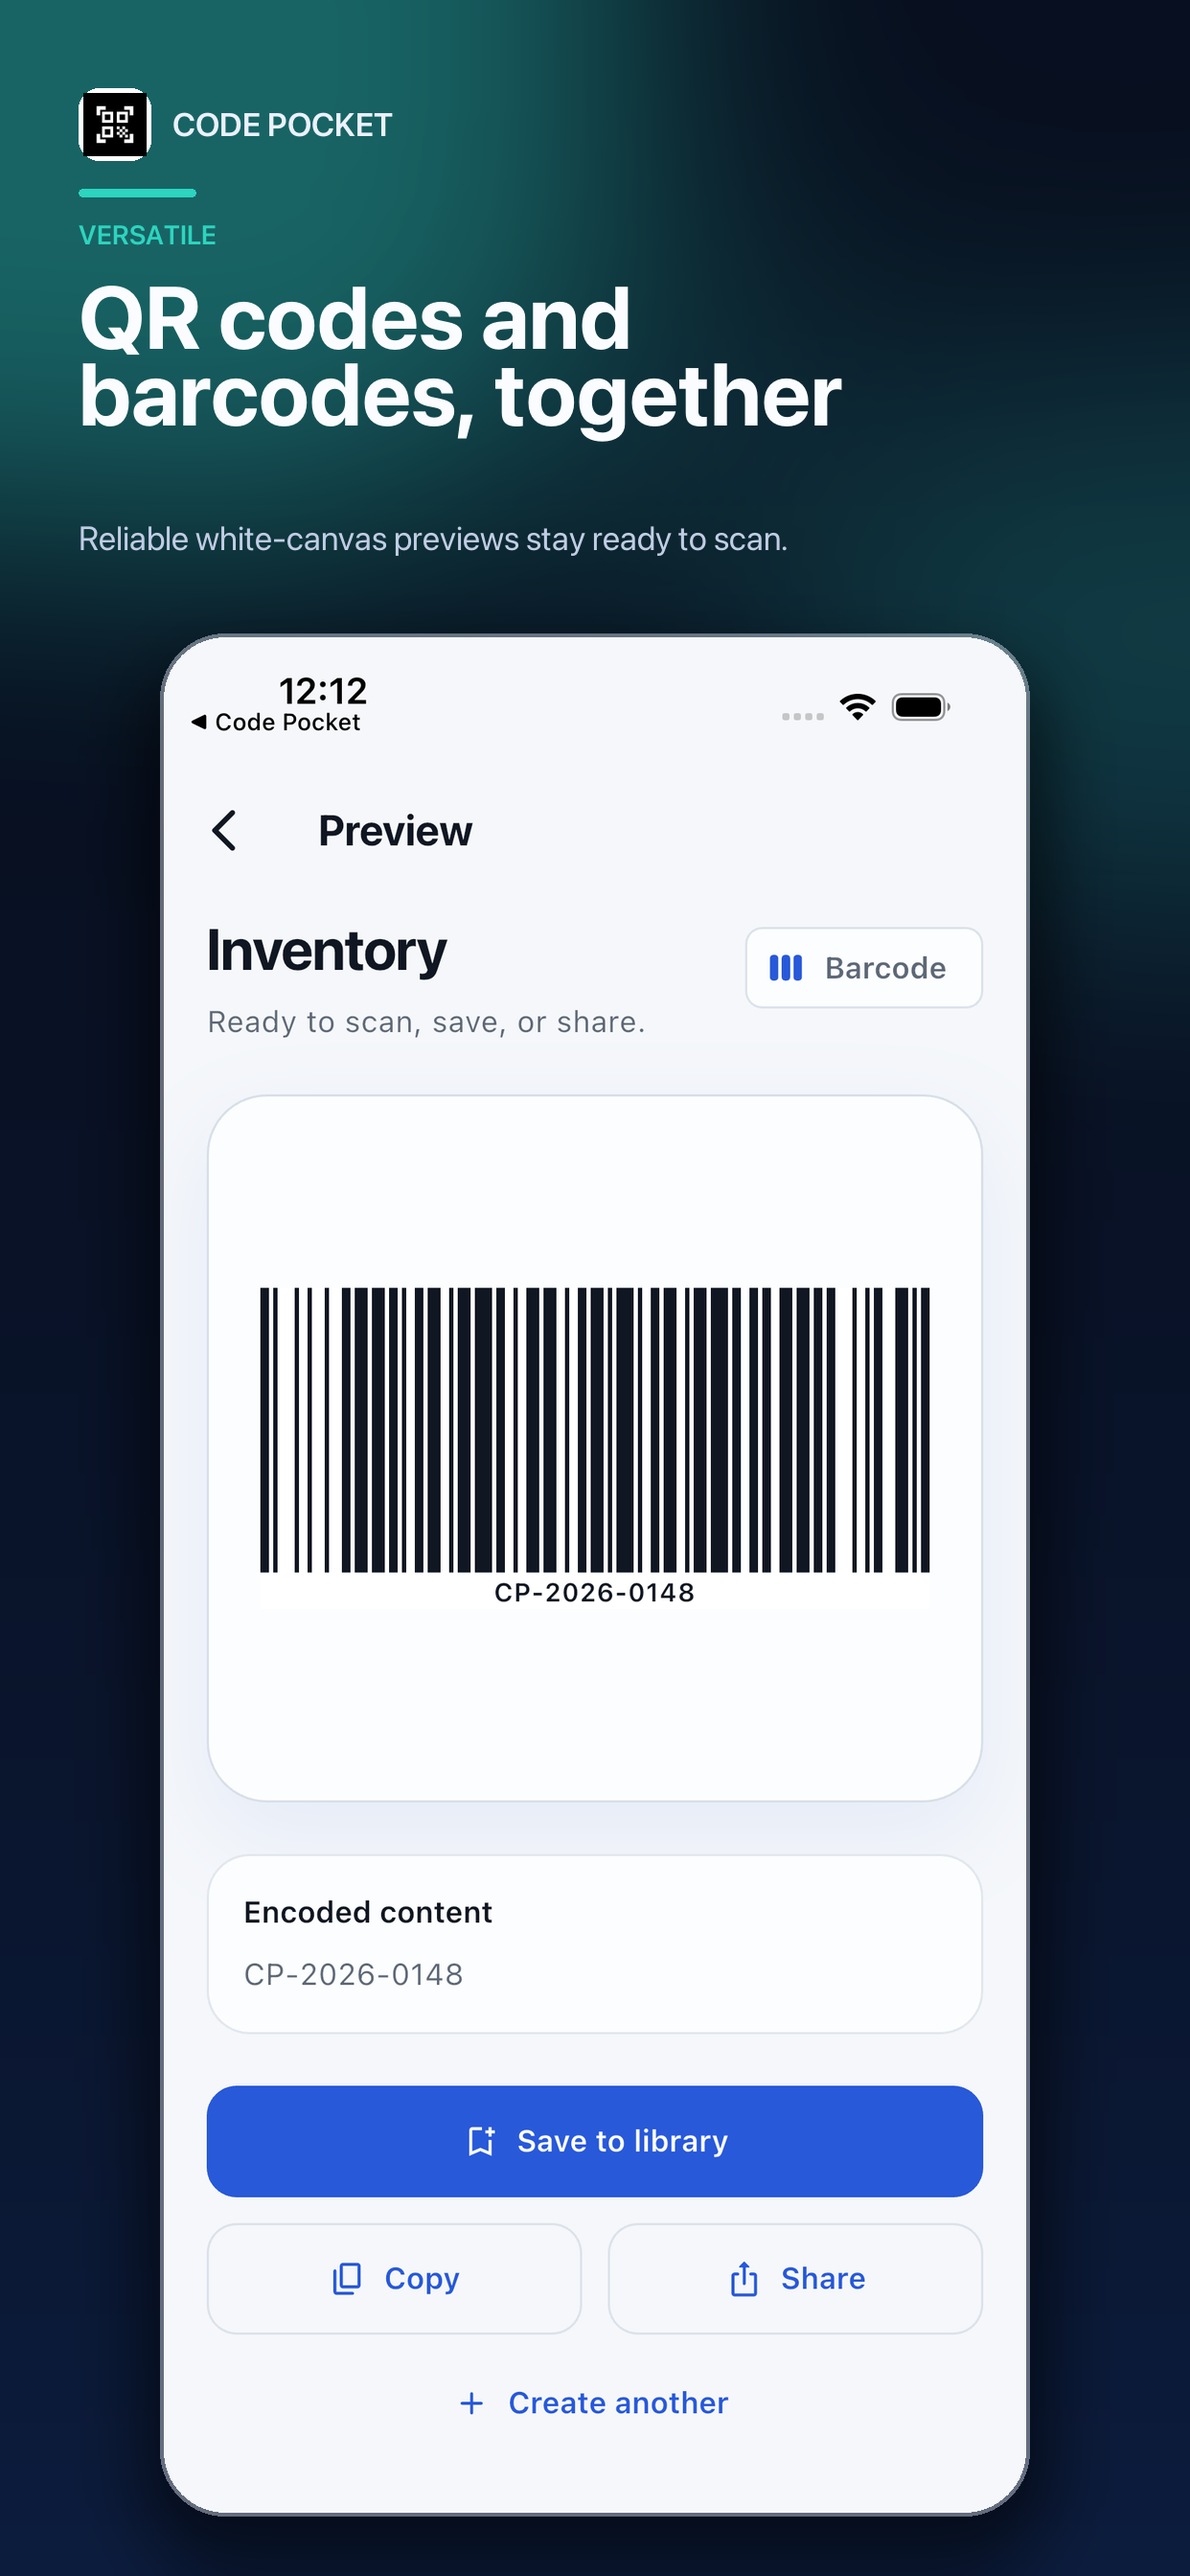
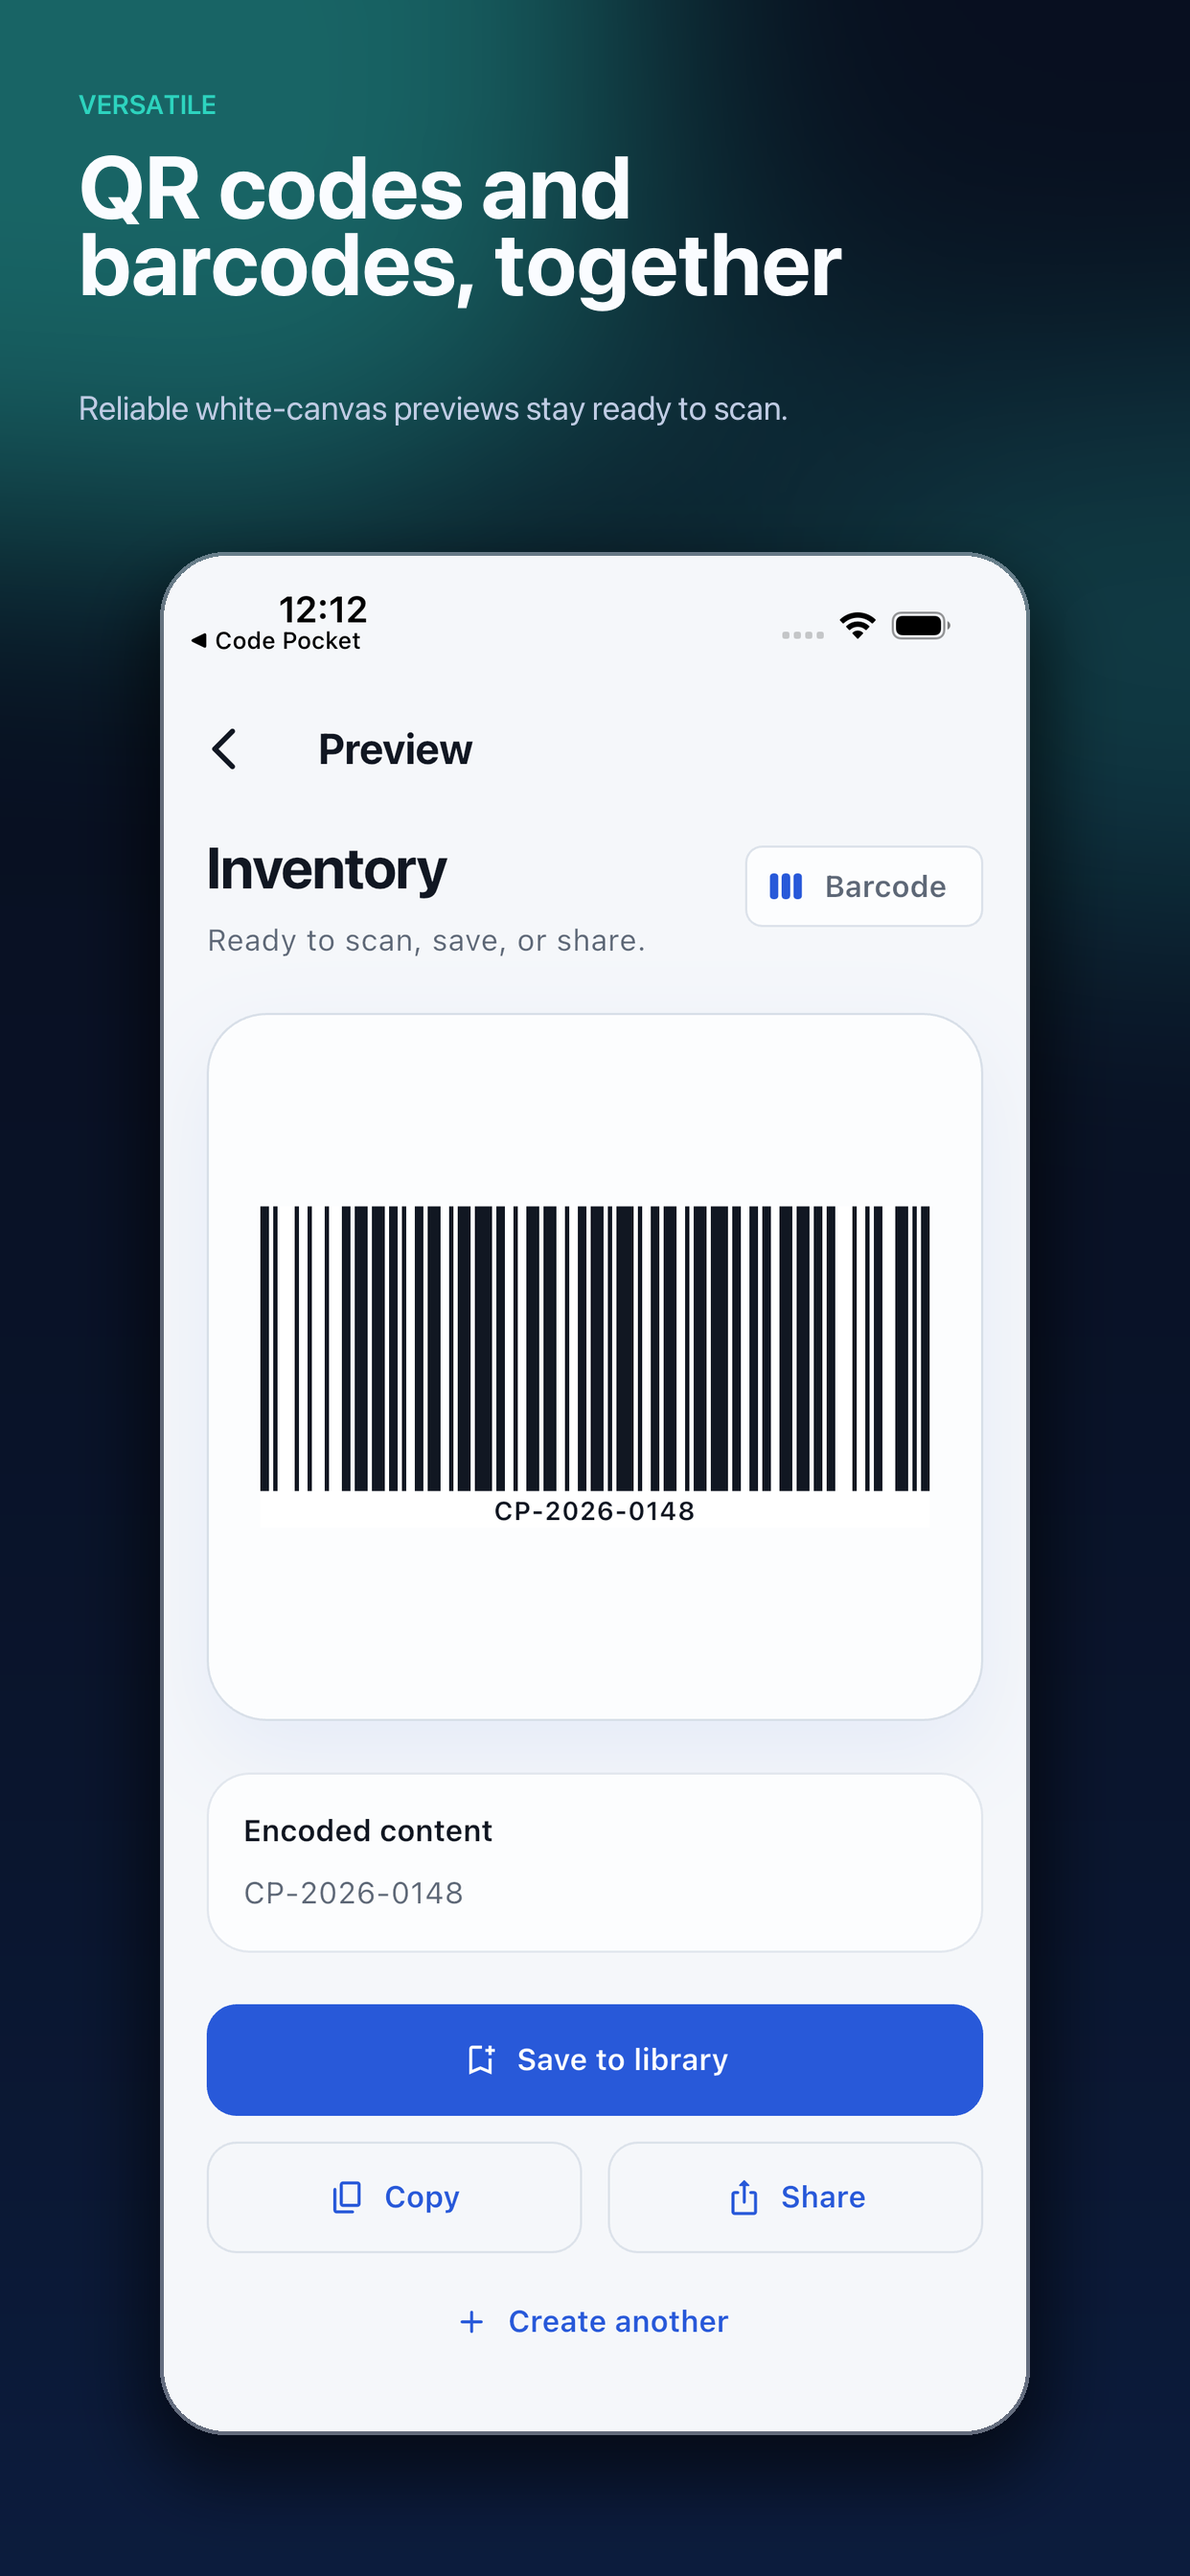
chore: prepare corrected App Store build

diff --git a/tool/create_app_store_screenshots.py b/tool/create_app_store_screenshots.py
@@ -11,11 +11,9 @@ from PIL import Image, ImageDraw, ImageFilter, ImageFont
 ROOT = Path(__file__).resolve().parents[1]
 RAW_DIR = ROOT / "store_assets" / "appstore" / "raw"
 OUTPUT_DIR = ROOT / "store_assets" / "appstore" / "final"
-LOGO_PATH = ROOT / "assets" / "images" / "app_logo.png"
-
 CANVAS_SIZE = (1242, 2688)
 SCREEN_WIDTH = 900
-SCREEN_TOP = 665
+SCREEN_TOP = 580
 SCREEN_CORNER_RADIUS = 64
 
 FONT_BOLD = "/Library/Fonts/SF-Pro-Display-Bold.otf"
@@ -85,35 +83,6 @@ def _vertical_gradient(accent: tuple[int, int, int]) -> Image.Image:
     return Image.alpha_composite(image.convert("RGBA"), glow)
 
 
-def _add_brand_mark(canvas: Image.Image, accent: tuple[int, int, int]) -> None:
-    draw = ImageDraw.Draw(canvas)
-    logo = Image.open(LOGO_PATH).convert("RGBA")
-    logo.thumbnail((66, 66), Image.Resampling.LANCZOS)
-
-    logo_plate = Image.new("RGBA", (76, 76), (255, 255, 255, 245))
-    logo_mask = Image.new("L", logo_plate.size, 0)
-    ImageDraw.Draw(logo_mask).rounded_rectangle(
-        (0, 0, 75, 75),
-        radius=21,
-        fill=255,
-    )
-    logo_plate.putalpha(logo_mask)
-    canvas.alpha_composite(logo_plate, (82, 92))
-    canvas.alpha_composite(logo, (87, 97))
-
-    draw.text(
-        (180, 109),
-        "CODE POCKET",
-        font=_font(FONT_SEMIBOLD, 34),
-        fill=(235, 241, 255, 230),
-    )
-    draw.rounded_rectangle(
-        (82, 197, 204, 205),
-        radius=4,
-        fill=(*accent, 255),
-    )
-
-
 def _add_copy(
     canvas: Image.Image,
     eyebrow: str,
@@ -123,21 +92,21 @@ def _add_copy(
 ) -> None:
     draw = ImageDraw.Draw(canvas)
     draw.text(
-        (82, 228),
+        (82, 92),
         eyebrow,
         font=_font(FONT_SEMIBOLD, 28),
         fill=(*accent, 255),
         stroke_width=0,
     )
     draw.multiline_text(
-        (82, 276),
+        (82, 140),
         headline,
         font=_font(FONT_BOLD, 92),
         fill=(250, 252, 255, 255),
         spacing=-8,
     )
     draw.text(
-        (82, 540),
+        (82, 404),
         subtitle,
         font=_font(FONT_REGULAR, 35),
         fill=(193, 205, 229, 255),
@@ -194,7 +163,6 @@ def compose(item: dict[str, object]) -> Path:
     assert isinstance(accent, tuple)
 
     canvas = _vertical_gradient(accent)
-    _add_brand_mark(canvas, accent)
     _add_copy(
         canvas,
         str(item["eyebrow"]),
